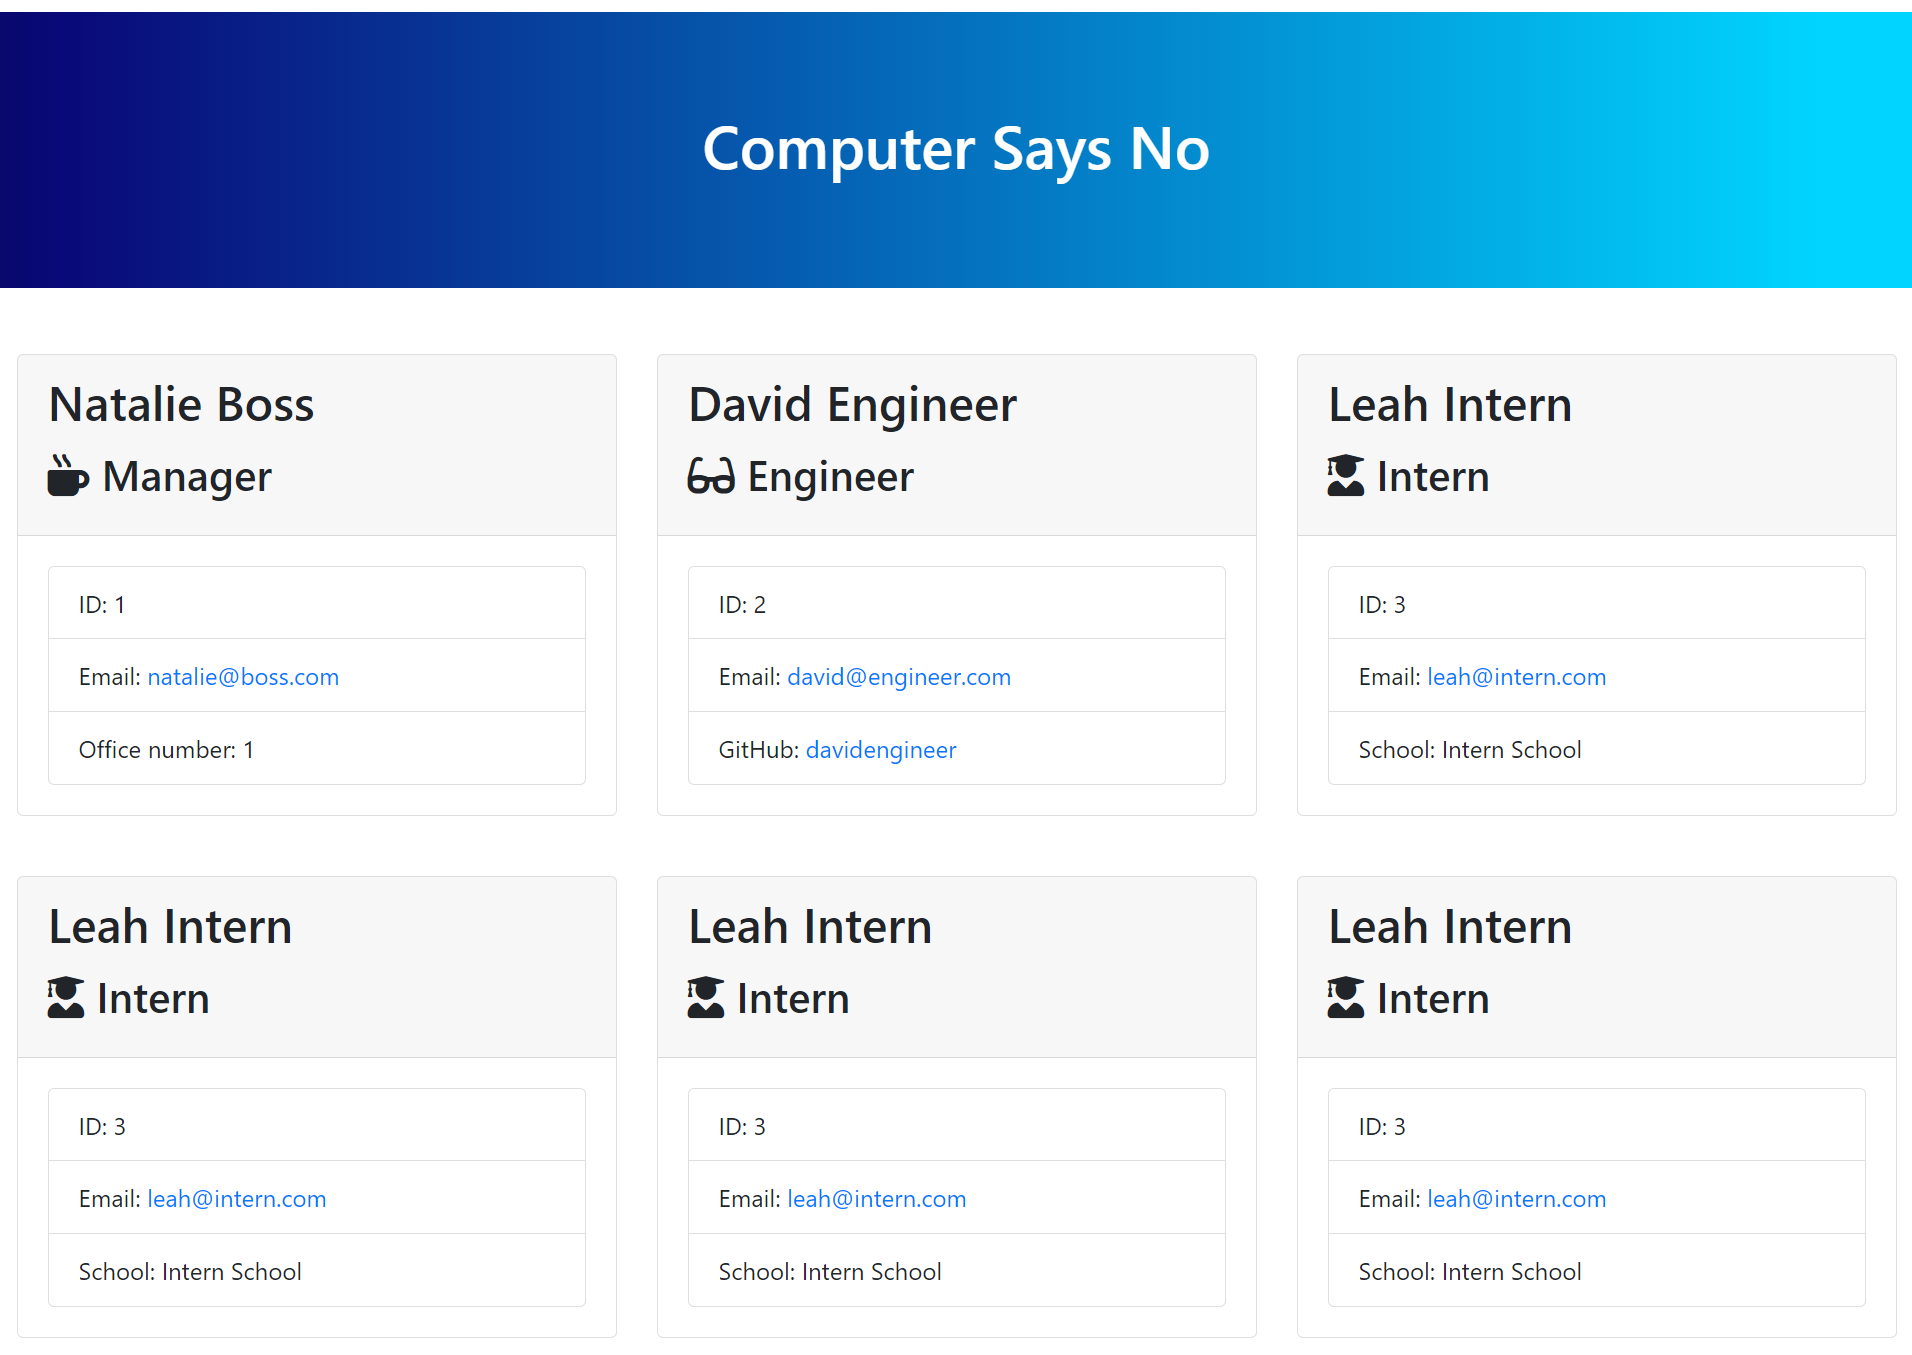
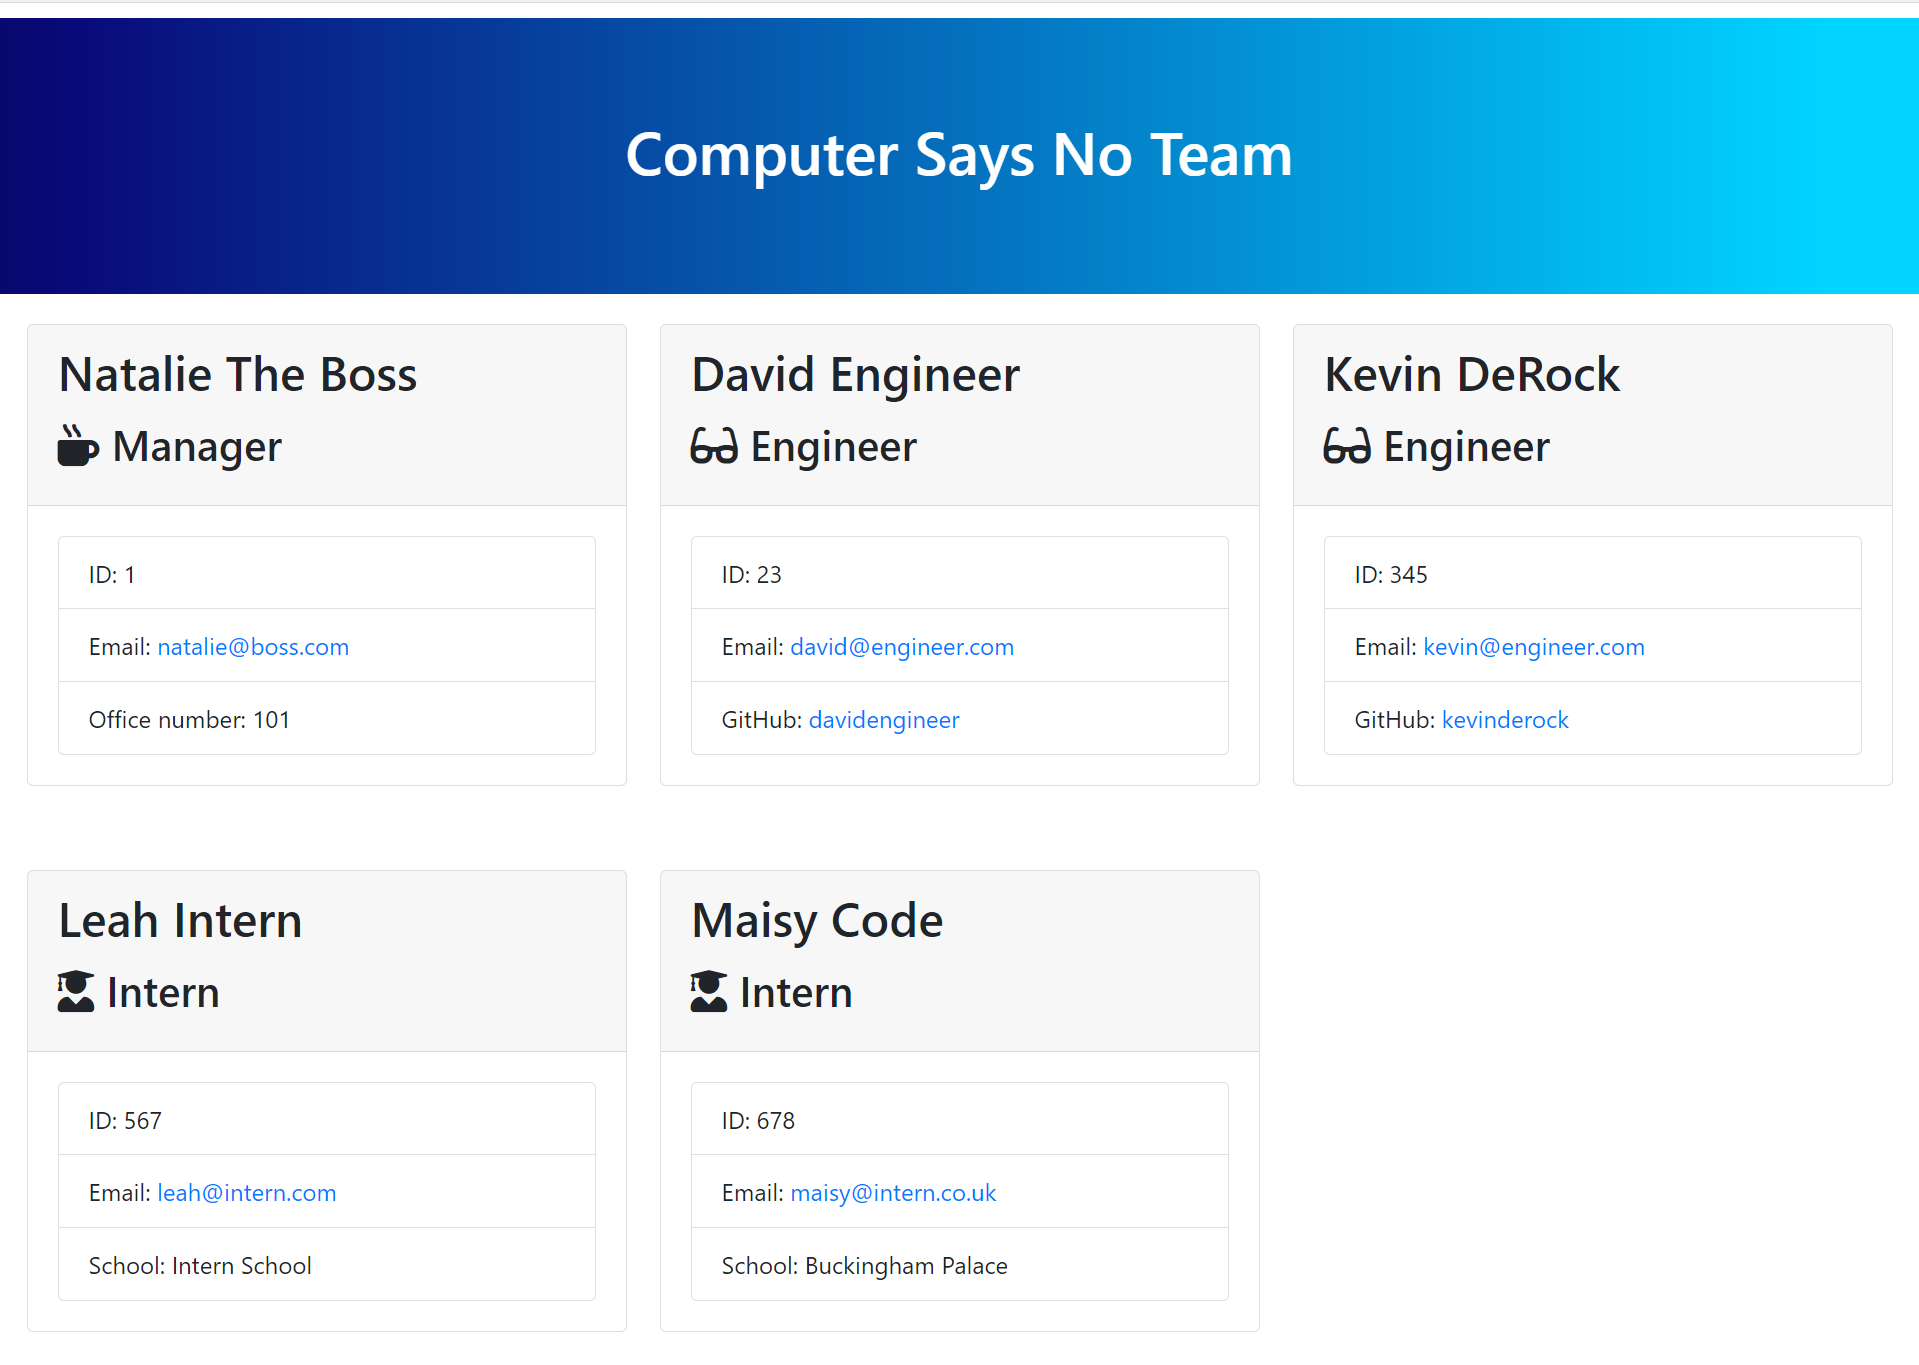
Final updates, re-generate HTML

diff --git a/output/team.html b/output/team.html
@@ -17,23 +17,23 @@
     <div class="container-fluid">
         <div class="row">
             <div class="col-12 m-auto jumbotron mb-3 team-heading">
-                <h1 class="text-center">Computer Says No</h1>
+                <h1 class="text-center">Computer Says No Team</h1>
             </div>
         </div>
     </div>
     <div class="container-fluid team-container">
-        <div class="row my-4">
+        <div class="team-row">
                 
         <div class="card employee-card col-12 col-md-4 p-0">
         <div class="card-header">
-            <h2 class="card-title">Natalie Boss</h2>
+            <h2 class="card-title">Natalie The Boss</h2>
             <h3 class="card-title"><i class="fas fa-mug-hot mr-2"></i>Manager</h3>
         </div>
         <div class="card-body">
             <ul class="list-group">
                 <li class="list-group-item">ID: 1</li>
                 <li class="list-group-item">Email: <a href="mailto:natalie@boss.com">natalie@boss.com</a></li>
-                <li class="list-group-item">Office number: 1</li>
+                <li class="list-group-item">Office number: 101</li>
             </ul>
         </div>
     </div>
@@ -45,9 +45,23 @@
     </div>
     <div class="card-body">
         <ul class="list-group">
-            <li class="list-group-item">ID: 2</li>
+            <li class="list-group-item">ID: 23</li>
             <li class="list-group-item">Email: <a href="mailto:david@engineer.com">david@engineer.com</a></li>
             <li class="list-group-item">GitHub: <a href="https://github.com/davidengineer" target="_blank" rel="noopener noreferrer">davidengineer</a></li>
+        </ul>
+    </div>
+</div>
+        
+        <div class="card employee-card col-12 col-md-4 p-0">
+    <div class="card-header">
+        <h2 class="card-title">Kevin DeRock</h2>
+        <h3 class="card-title"><i class="fas fa-glasses mr-2"></i>Engineer</h3>
+    </div>
+    <div class="card-body">
+        <ul class="list-group">
+            <li class="list-group-item">ID: 345</li>
+            <li class="list-group-item">Email: <a href="mailto:kevin@engineer.com">kevin@engineer.com</a></li>
+            <li class="list-group-item">GitHub: <a href="https://github.com/kevinderock" target="_blank" rel="noopener noreferrer">kevinderock</a></li>
         </ul>
     </div>
 </div>
@@ -59,9 +73,23 @@
     </div>
     <div class="card-body">
         <ul class="list-group">
-            <li class="list-group-item">ID: 3</li>
+            <li class="list-group-item">ID: 567</li>
             <li class="list-group-item">Email: <a href="mailto:leah@intern.com">leah@intern.com</a></li>
             <li class="list-group-item">School: Intern School</li>
+        </ul>
+    </div>
+</div>
+        
+        <div class="card employee-card col-12 col-md-4 p-0">
+    <div class="card-header">
+        <h2 class="card-title">Maisy Code</h2>
+        <h3 class="card-title"><i class="fas fa-user-graduate mr-2"></i>Intern</h3>
+    </div>
+    <div class="card-body">
+        <ul class="list-group">
+            <li class="list-group-item">ID: 678</li>
+            <li class="list-group-item">Email: <a href="mailto:maisy@intern.co.uk">maisy@intern.co.uk</a></li>
+            <li class="list-group-item">School: Buckingham Palace</li>
         </ul>
     </div>
 </div>

diff --git a/README.md b/README.md
@@ -74,5 +74,6 @@ npm test
 * Inquirer - Documentation
 
 ## Links
-You can find the corresponding Github repo [here](https://github.com/nattytatat/team-profile-generator)
+- You can find the corresponding Github repo [here](https://github.com/nattytatat/team-profile-generator)
+- The HTML Output file can be found [here](https://github.com/nattytatat/team-profile-generator/blob/main/output/team.html)
 
